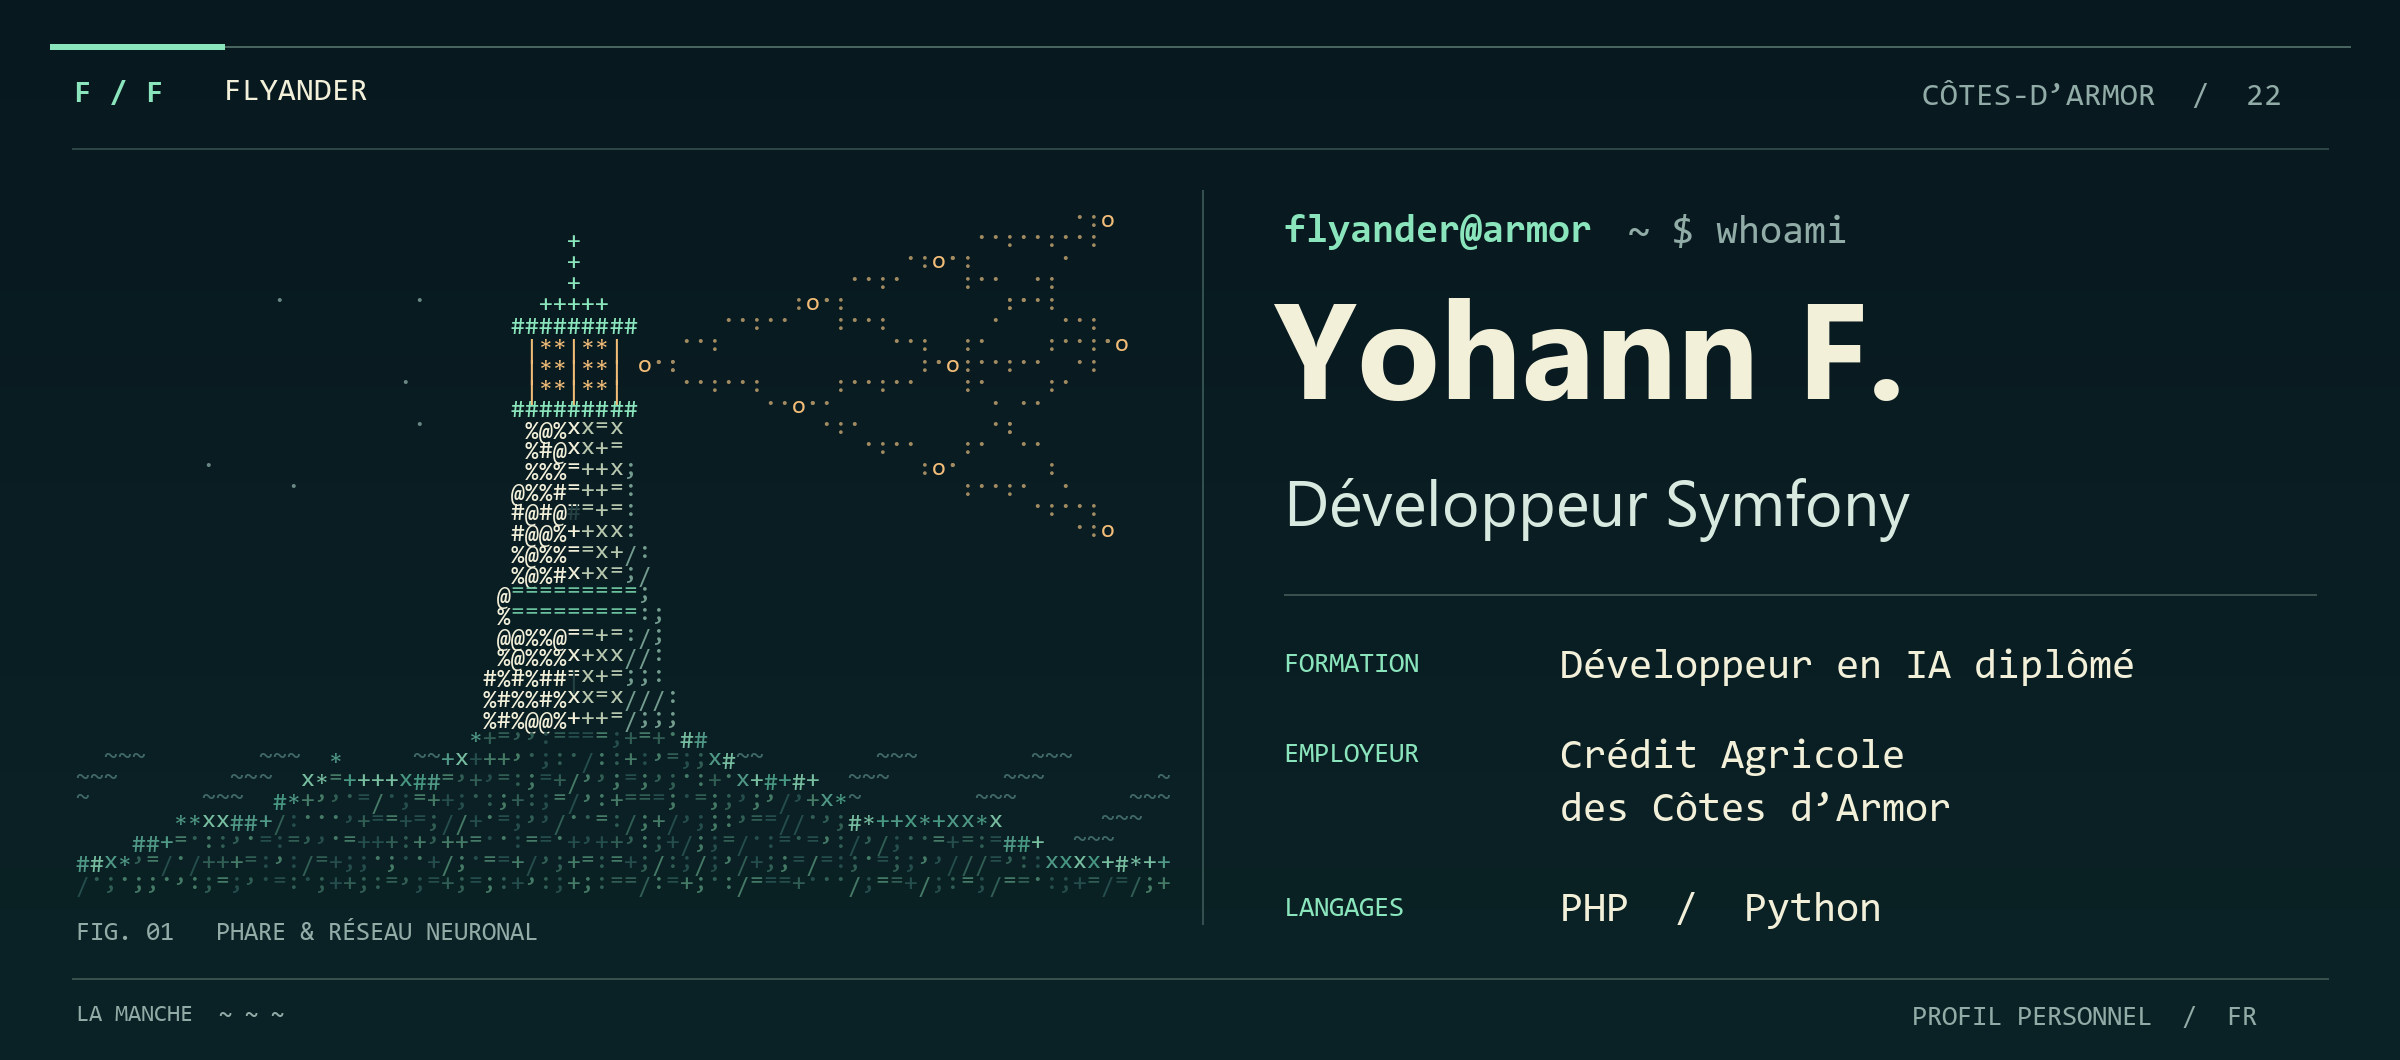
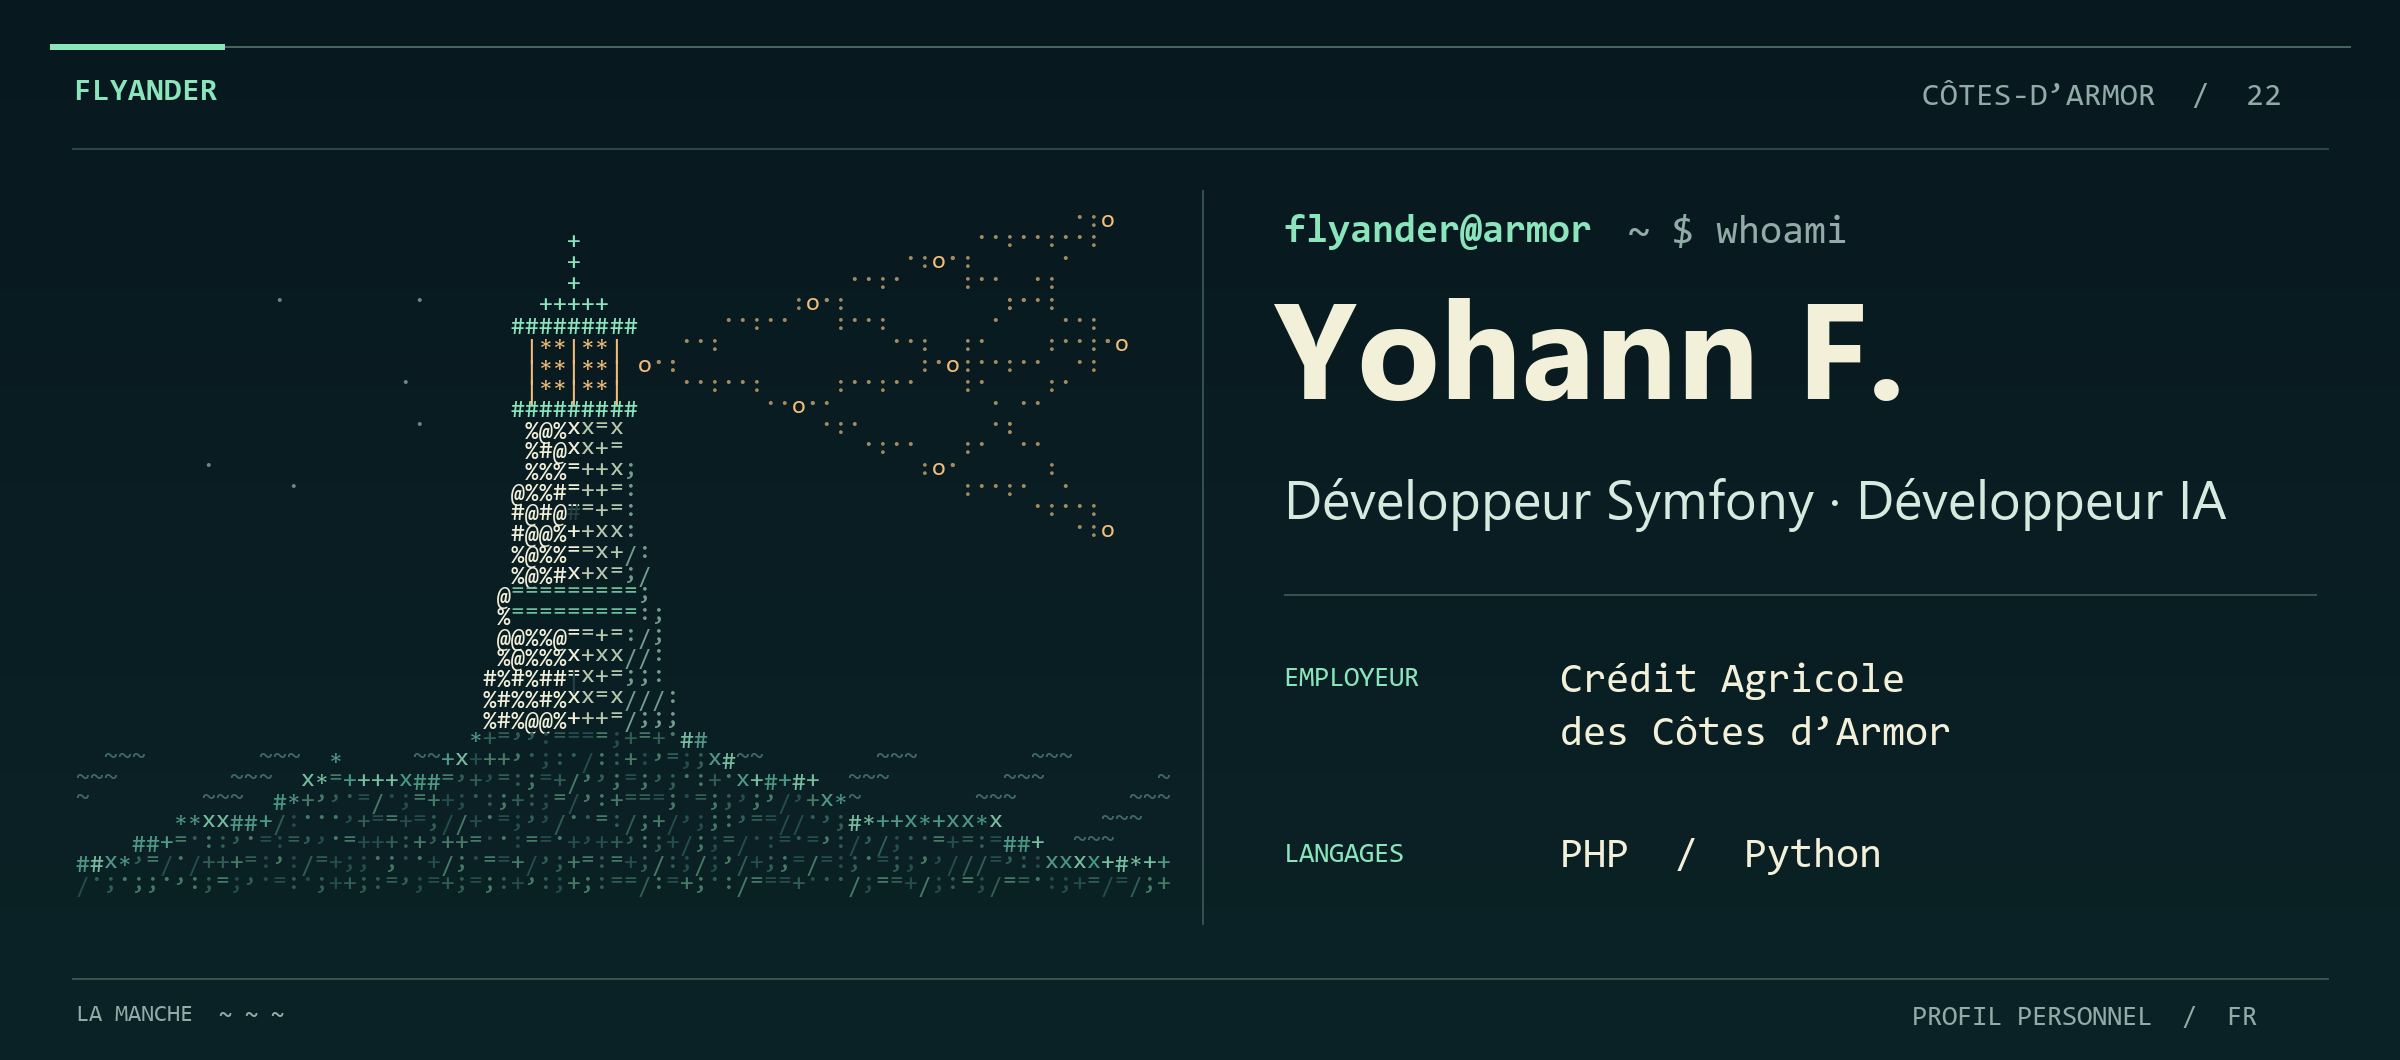
Épurer la bannière du profil GitHub

diff --git a/README.md b/README.md
@@ -1,6 +1,6 @@
-![Yohann F., développeur Symfony au Crédit Agricole des Côtes d’Armor et développeur diplômé en IA. Un phare en caractères ASCII projette un faisceau en forme de réseau de neurones.](./assets/armor.png)
+![Yohann F., développeur Symfony au Crédit Agricole des Côtes d’Armor et développeur IA. Un phare en caractères ASCII projette un faisceau en forme de réseau de neurones.](./assets/armor.png)
 
-Je développe en **PHP avec Symfony** au Crédit Agricole des Côtes d’Armor. Je suis également diplômé en développement d’intelligence artificielle.
+Je développe en **PHP avec Symfony** au Crédit Agricole des Côtes d’Armor. Je suis également **développeur IA**.
 
 ### Quelques réalisations publiques
 
